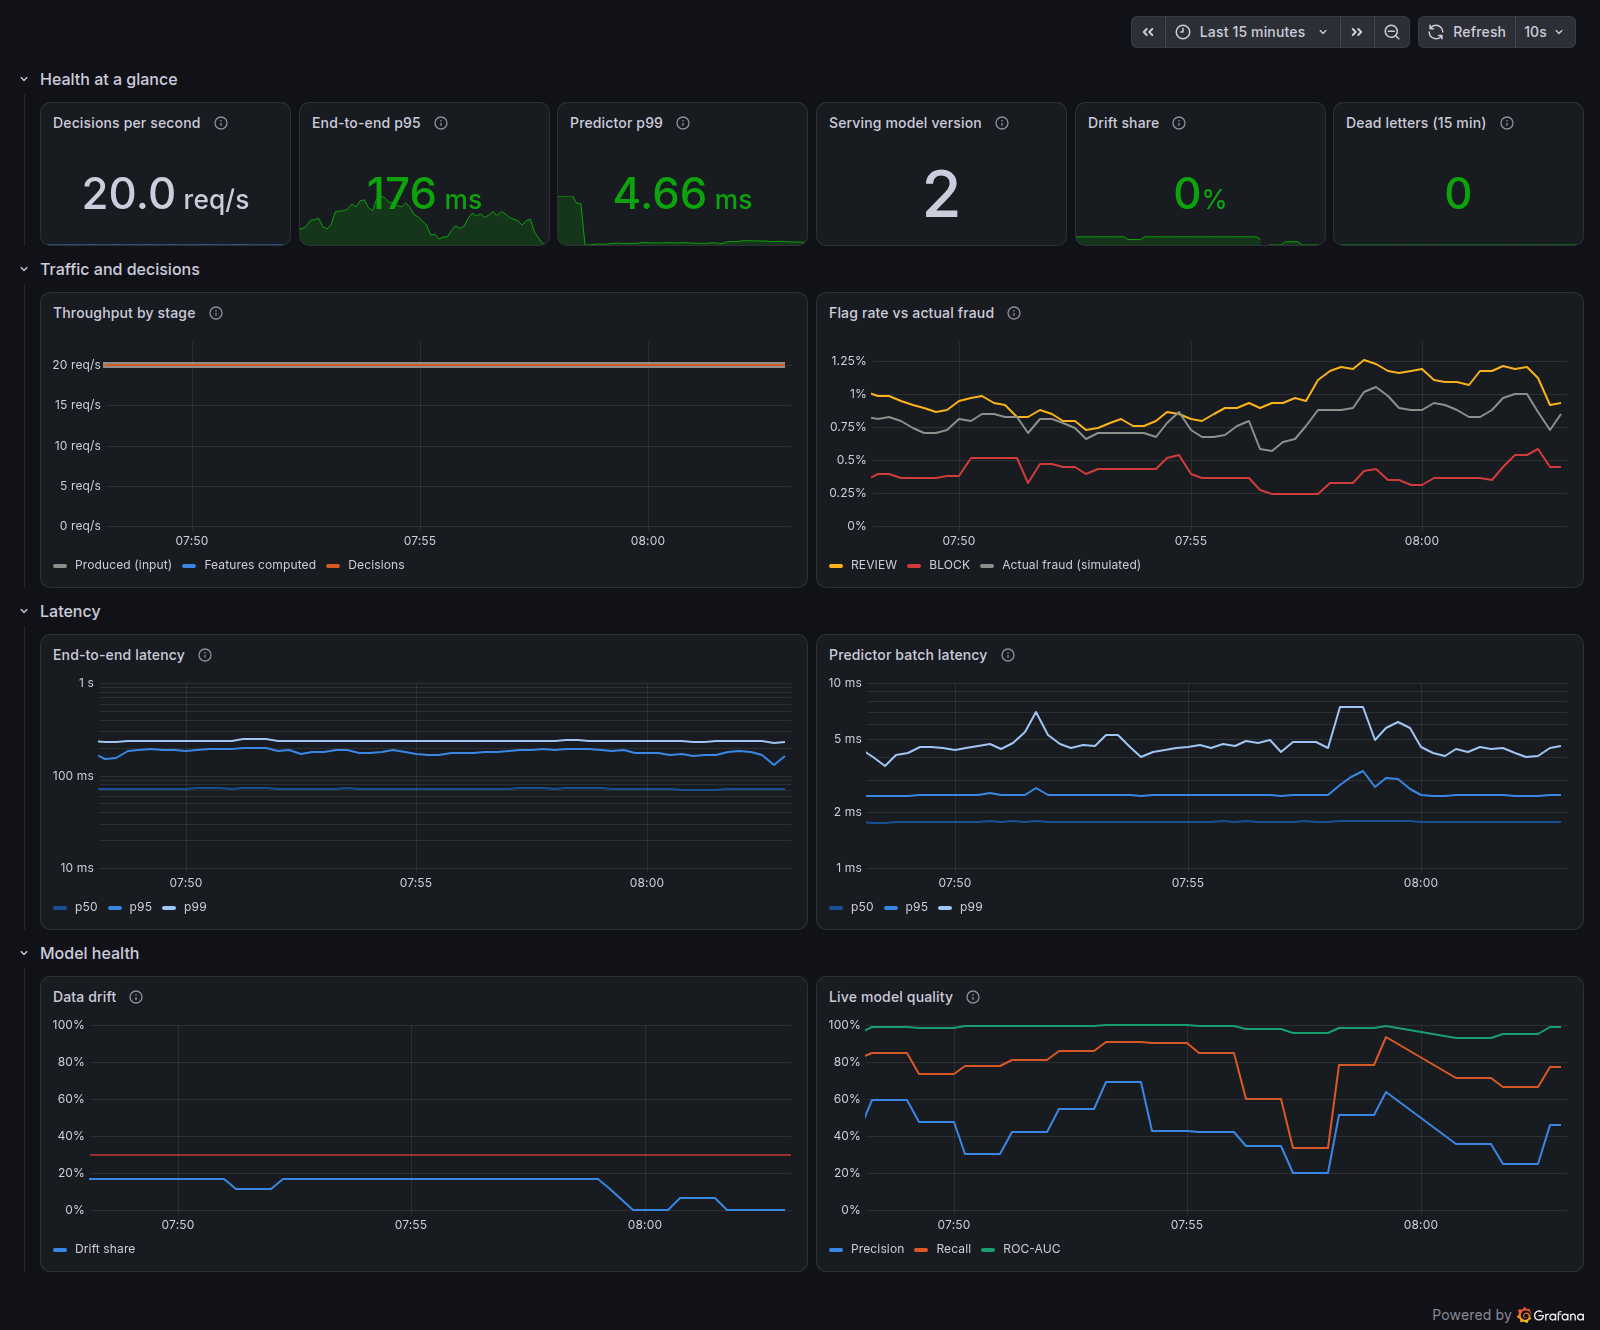
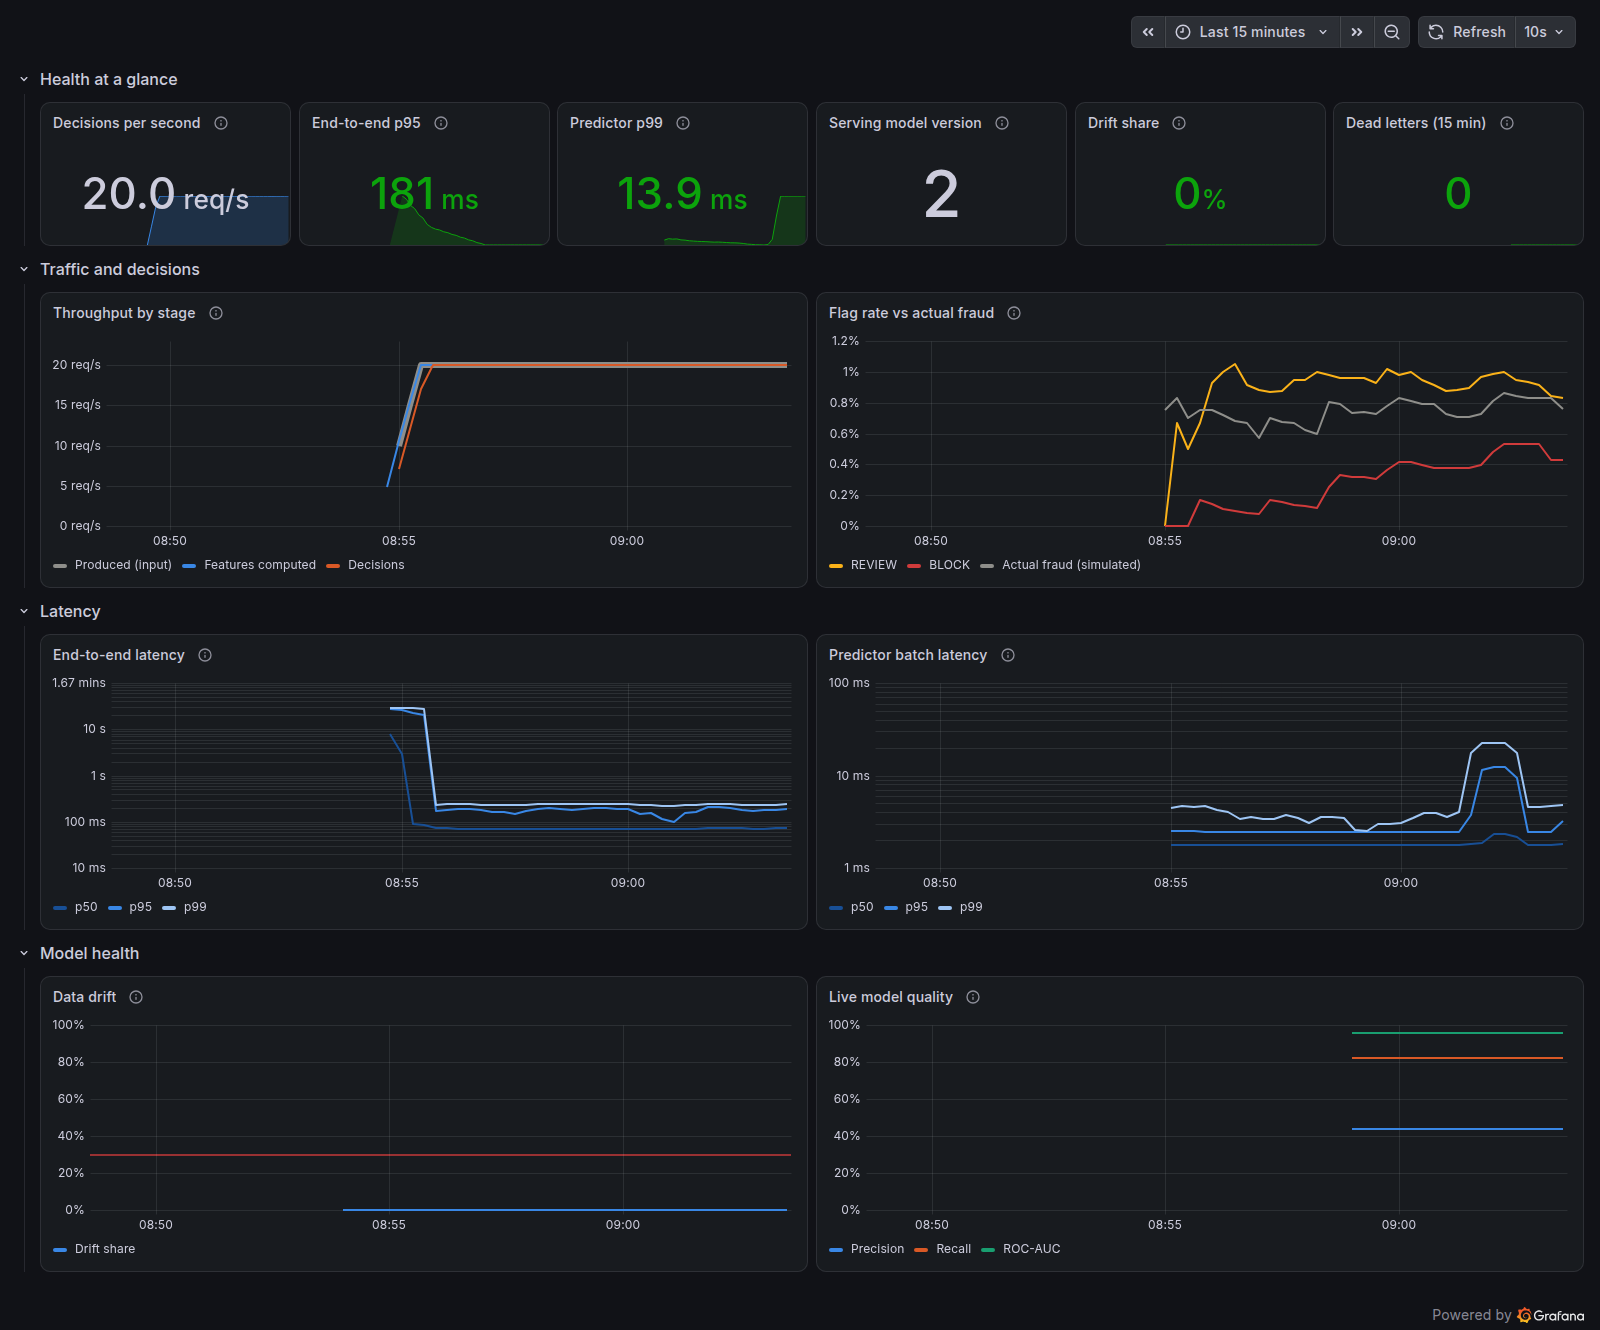
Serve the early-stopped XGBoost model; re-measure every published number
XGBoost's early stopping only records best_iteration: the booster keeps
the 50 rounds after it, and native prediction (inplace_predict, the
saved JSON) used all of them. On the canonical dataset the served model
had 225 trees instead of 175, and XGBoost's probabilities differed from
the early-stopped model by up to 0.095. The booster is now sliced to
its best iteration; LightGBM already predicted with, and saved, only
its best iteration. A new test fails on the previous code.

This is about serving the model that validation selected, not a score
gain: test PR-AUC moves from 0.792 to 0.791, well inside the confidence
interval. Since the served model changed, every number in the docs was
measured again from a clean `docker compose up` with
HISTORY_END=1767225600 (same dataset and splits): PR-AUC 0.791 (95% CI
0.706-0.852), REVIEW precision at p>=0.1 0.49 (was 0.51). The isotonic
comparison, component PR-AUCs, operating points, feature importances,
benchmarks and screenshots come from the same run.

diff --git a/tests/unit/test_trainer.py b/tests/unit/test_trainer.py
@@ -6,15 +6,23 @@ from typing import NoReturn
 import fakeredis
 import mlflow
 import numpy as np
+import pandas as pd
 import pytest
 from mlflow.tracking import MlflowClient
 
 from fraud_detection.bootstrap import run_bootstrap
 from fraud_detection.config import BootstrapSettings, TrainerSettings
+from fraud_detection.evaluation import temporal_split
 from fraud_detection.features import FEATURE_COLUMNS
 from fraud_detection.registry import _inside, download_reference, load_model, resolve_alias
 from fraud_detection.simulation import DAY
-from fraud_detection.trainer import decide_promotion, main, train_and_register
+from fraud_detection.trainer import (
+    decide_promotion,
+    main,
+    train_and_register,
+    train_ensemble,
+    xgboost_params,
+)
 
 END = 1_767_225_600.0 + 40 * DAY
 
@@ -73,6 +81,19 @@ def tracking(tmp_path: Path, monkeypatch: pytest.MonkeyPatch) -> str:
     monkeypatch.setenv("MLFLOW_TRACKING_URI", uri)
     mlflow.set_tracking_uri(uri)
     return uri
+
+
+def test_boosters_keep_only_their_early_stopped_trees(dataset: Path) -> None:
+    split = temporal_split(
+        pd.read_parquet(dataset), warmup_days=5, validation_fraction=0.15, test_fraction=0.15
+    )
+
+    scorer, info = train_ensemble(split, seed=42)
+
+    best_rounds = int(info["xgb_best_iteration"]) + 1
+    assert best_rounds < xgboost_params(42)["n_estimators"]  # early stopping did trigger
+    assert scorer.xgb_booster.num_boosted_rounds() == best_rounds
+    assert scorer.lgb_booster.current_iteration() >= int(info["lgb_best_iteration"])
 
 
 def test_train_register_promote_and_compare(dataset: Path, tracking: str) -> None:

diff --git a/src/fraud_detection/trainer.py b/src/fraud_detection/trainer.py
@@ -148,6 +148,9 @@ def train_ensemble(split: TemporalSplit, seed: int) -> tuple[EnsembleScorer, dic
 
     xgb_model = xgb.XGBClassifier(**xgboost_params(seed))
     xgb_model.fit(x_train, y_train, eval_set=[(x_valid, y_valid)], verbose=False)
+    # Early stopping only records the best round: the booster still holds the extra rounds,
+    # and native prediction (inplace_predict, the saved JSON) would use all of them.
+    xgb_booster = xgb_model.get_booster()[: xgb_model.best_iteration + 1]
 
     lgb_model = lgb.LGBMClassifier(**lightgbm_params(seed))
     lgb_model.fit(
@@ -159,8 +162,9 @@ def train_ensemble(split: TemporalSplit, seed: int) -> tuple[EnsembleScorer, dic
         callbacks=[lgb.early_stopping(50, verbose=False)],
     )
 
+    # LightGBM's booster already predicts with, and saves, only its best iteration.
     uncalibrated = EnsembleScorer(
-        xgb_model.get_booster(), lgb_model.booster_, LogitCalibrator.identity(), FEATURE_COLUMNS
+        xgb_booster, lgb_model.booster_, LogitCalibrator.identity(), FEATURE_COLUMNS
     )
     valid_scores = uncalibrated.raw_scores(to_matrix(split.validation, FEATURE_COLUMNS))
     calibrator = fit_logit_calibration(valid_scores, split.validation["label"].to_numpy())

diff --git a/src/fraud_detection/modeling.py b/src/fraud_detection/modeling.py
@@ -38,7 +38,7 @@ class LogitCalibrator:
     Strictly increasing for ``slope > 0``, so it never changes the ranking of
     transactions (PR-AUC and alert ordering are preserved) while correcting the
     probability scale. Isotonic regression was evaluated and rejected: its step
-    function collapsed ~24k distinct test scores into 29 plateaus and lost ~0.02 PR-AUC.
+    function collapsed ~24k distinct test scores into 47 plateaus and lost ~0.03 PR-AUC.
     """
 
     slope: float = 1.0

diff --git a/docs/model-card.md b/docs/model-card.md
@@ -51,11 +51,11 @@ dropped because rolling windows (up to 32 days) are still filling there.
 
 | Metric | Value |
 |---|---|
-| PR-AUC (average precision) | **0.792** (95% CI 0.707–0.853) |
+| PR-AUC (average precision) | **0.791** (95% CI 0.706–0.852) |
 | ROC-AUC | 0.987 |
-| Recall at 1% false-positive rate | 0.850 |
-| Brier score | 0.00374 |
-| Log loss | 0.0157 |
+| Recall at 1% false-positive rate | 0.845 |
+| Brier score | 0.00375 |
+| Log loss | 0.0158 |
 
 The confidence interval comes from a cluster bootstrap over users (200 resamples):
 fraud arrives in per-user bursts, so resampling rows would understate the
@@ -66,29 +66,30 @@ differences of a few hundredths of PR-AUC between runs as noise.
 
 | Threshold | Action | Precision | Recall | Share of traffic flagged |
 |---|---|---|---|---|
-| 0.1 | `REVIEW` or `BLOCK` | 0.51 | 0.80 | 1.53% |
+| 0.1 | `REVIEW` or `BLOCK` | 0.49 | 0.80 | 1.57% |
 | 0.9 | `BLOCK` | 0.96 | 0.47 | 0.47% |
 
-Other points on the precision-recall curve: 0.29 precision at 0.89 recall
-(p ≥ 0.022), 0.71 at 0.74 (p ≥ 0.23), 0.95 at 0.50 (p ≥ 0.87). The full curve is logged
+Other points on the precision-recall curve: 0.27 precision at 0.89 recall
+(p ≥ 0.020), 0.71 at 0.74 (p ≥ 0.23), 0.95 at 0.50 (p ≥ 0.87). The full curve is logged
 as `evaluation/precision_recall.csv`. The thresholds are a business choice
 (review capacity versus losses) and can be changed without retraining.
 
 ### Calibration
 
 Probabilities are calibrated: across deciles of predicted risk, the mean prediction and
-the observed fraud rate agree (top decile: 0.095 predicted, 0.093 observed; see
-`evaluation/reliability.csv`). The fitted Platt parameters (slope 0.98, intercept 0.27)
-show that the averaged boosters were already close to calibrated, because they are
-trained on log loss without class re-weighting. Calibration stays in the pipeline as a
-safeguard that never reorders transactions.
+the observed fraud rate agree (top decile: 0.095 predicted, 0.094 observed; see
+`evaluation/reliability.csv`). The fitted Platt parameters (slope 1.00, intercept 0.31)
+only nudge the log-odds up. The averaged boosters are trained on log loss without class
+re-weighting, so they are close to calibrated already: the Brier score is 0.00375 before
+and after calibration. Calibration stays in the pipeline as a safeguard that never
+reorders transactions.
 
 ### Design choices backed by this evaluation
 
 | Choice | Evidence |
 |---|---|
-| Platt scaling instead of isotonic regression | Isotonic calibration collapsed ~24k distinct test scores into 29 plateaus, cutting PR-AUC from 0.792 to 0.771 and worsening log loss (0.0163 vs 0.0157). Platt scaling is strictly monotone. |
-| Keep the two-model average | Validation PR-AUC: XGBoost 0.766, LightGBM 0.752, average 0.766. On the test period XGBoost alone scored 0.801, but the validation data cannot tell it apart from the average, so choosing it would be selection on noise. |
+| Platt scaling instead of isotonic regression | Isotonic calibration collapsed ~24k distinct test scores into 47 plateaus, cutting PR-AUC from 0.791 to 0.763 and worsening log loss (0.0164 vs 0.0158). Platt scaling is strictly monotone. |
+| Keep the two-model average | Validation PR-AUC: XGBoost 0.766, LightGBM 0.752, average 0.767. On the test period XGBoost alone scored 0.799, but the validation data cannot tell it apart from the average, so choosing it would be selection on noise. |
 | Out-of-time split | A random split would place transactions from the same fraud burst in both train and test. |
 
 ### Most influential features
@@ -98,7 +99,7 @@ Share of total split gain, averaged over both boosters:
 | Feature | Share |
 |---|---|
 | `tx_count_1h` | 0.23 |
-| `merchant_fraud_rate_30d` | 0.18 |
+| `merchant_fraud_rate_30d` | 0.19 |
 | `seconds_since_last_tx` | 0.16 |
 | `card_present` | 0.12 |
 | `amount_zscore` | 0.08 |

diff --git a/docs/architecture.md b/docs/architecture.md
@@ -141,13 +141,13 @@ sequenceDiagram
   dropped (rolling windows still filling), then the history is split 70/15/15 into
   train, validation and test. Random splits would put rows of the same fraud burst on
   both sides and inflate the metrics.
-- **Model.** XGBoost and LightGBM (early stopping on validation PR-AUC), probabilities
-  averaged. On the reference dataset the two tie on validation (0.766 vs 0.766 for the
+- **Model.** XGBoost and LightGBM with early stopping on validation PR-AUC (each keeps
+  only the trees up to its best iteration), probabilities averaged. On the reference dataset the two tie on validation (0.766 vs 0.767 for the
   average), so no single-model selection is made on noise.
 - **Calibration.** Platt scaling on the logit, fitted on the validation period. It is
   strictly monotone, so it never reorders transactions. Isotonic regression was
-  evaluated and rejected: it collapsed ~24k distinct test scores into 29 plateaus,
-  cost 0.021 PR-AUC and worsened log loss.
+  evaluated and rejected: it collapsed ~24k distinct test scores into 47 plateaus,
+  cost 0.028 PR-AUC and worsened log loss.
 - **Packaging.** Artifacts are stored in native formats (XGBoost JSON, LightGBM text,
   calibration JSON), wrapped in an MLflow pyfunc logged with *models from code* so that
   standard MLflow tooling can serve it. The services never use that wrapper: they read
@@ -233,6 +233,6 @@ unencrypted, and credentials are development defaults. See the
 | Component | How it scales |
 |---|---|
 | feature-processor, scorer | Add replicas up to the partition count (6); users are sharded by key. |
-| predictor | Stateless; run more replicas behind a load balancer. One process sustained ~480 req/s on a 4-vCPU host shared with the whole stack. |
+| predictor | Stateless; run more replicas behind a load balancer. One process sustained ~460 req/s on a 4-vCPU host shared with the whole stack. |
 | Redis | Keys are cluster-ready; per-user state is bounded by the 32-day retention. |
 | monitor | One instance per model; windows are in memory and bounded. |

diff --git a/README.md b/README.md
@@ -84,16 +84,16 @@ fraud; the model never saw that period during training. Full details are in the
 | PR-AUC | **0.79** (95% CI 0.71–0.85) |
 | ROC-AUC | 0.987 |
 | Recall at a 1% false-positive rate | 0.85 |
-| `REVIEW` or `BLOCK` (p ≥ 0.1) | precision 0.51, recall 0.80, 1.5% of traffic flagged |
+| `REVIEW` or `BLOCK` (p ≥ 0.1) | precision 0.49, recall 0.80, 1.6% of traffic flagged |
 | `BLOCK` (p ≥ 0.9) | precision 0.96, recall 0.47 |
 
 | Latency and throughput | p50 | p95 | p99 |
 |---|---|---|---|
-| `/v1/predict`, one request at a time (server time) | 0.9 ms | 1.8 ms | 3.1 ms |
-| `/v1/predict`, 8 concurrent clients (client time), 482 req/s | 15.7 ms | 22.9 ms | 35.8 ms |
-| Producer → published decision, 20 transactions/s | 71 ms | 167 ms | 233 ms |
+| `/v1/predict`, one request at a time (server time) | 0.9 ms | 1.5 ms | 2.4 ms |
+| `/v1/predict`, 8 concurrent clients (client time), 459 req/s | 16.2 ms | 23.7 ms | 35.3 ms |
+| Producer → published decision, 20 transactions/s | 71 ms | 148 ms | 230 ms |
 
-Batch scoring (`/v1/predict/batch`, 50 per request) sustained about 16,000
+Batch scoring (`/v1/predict/batch`, 50 per request) sustained about 15,000
 transactions/s. All figures come from a 4-vCPU virtual machine that also ran the entire stack
 and the load generator, so treat them as an order of magnitude, not a capacity plan.
 The raw results are in [`docs/results/`](docs/results/); reproduce them with
